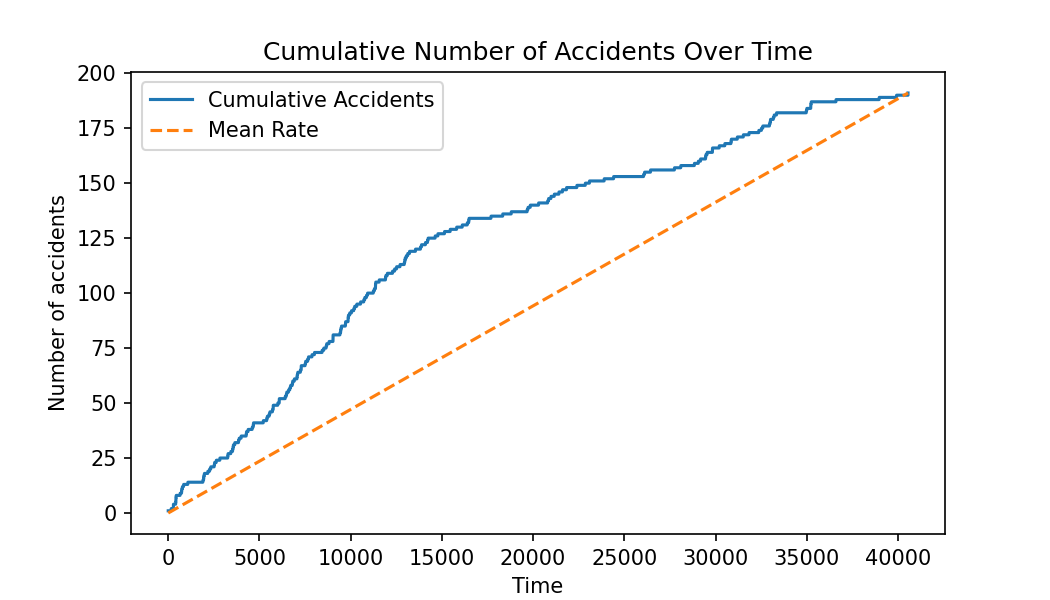
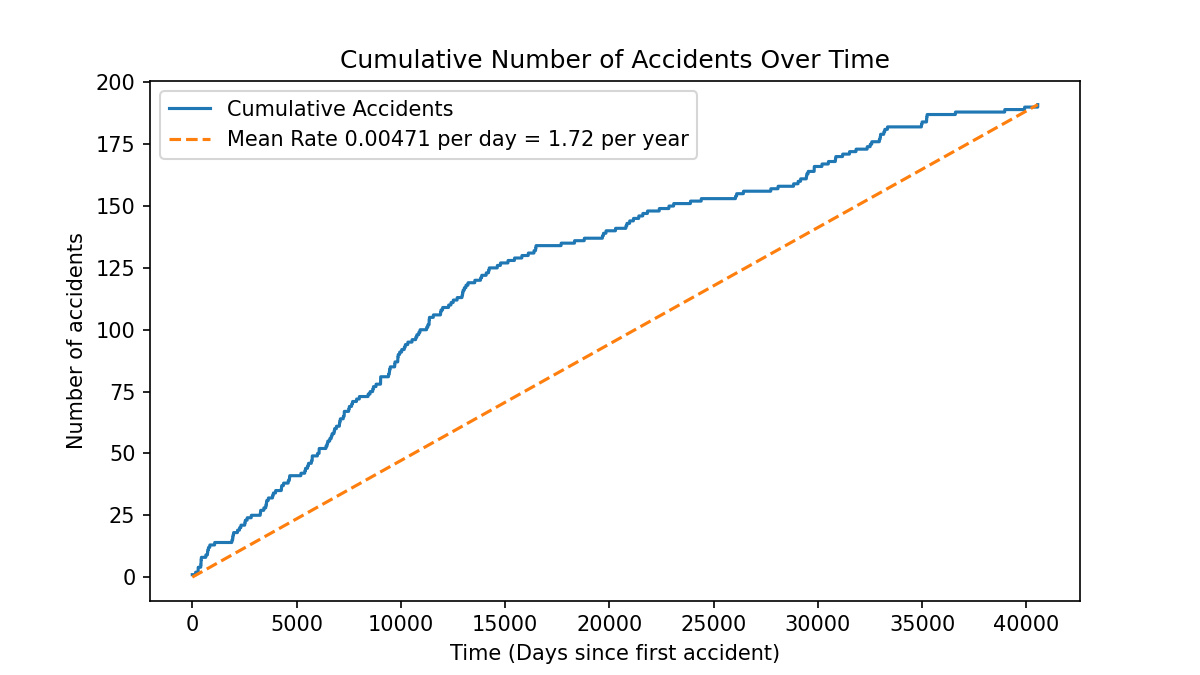
saved all graphs up to q5ultimatepart

diff --git a/helpers/q2.py b/helpers/q2.py
@@ -1,6 +1,9 @@
 import numpy as np
 import matplotlib.pyplot as plt
 
+from matplotlib.ticker import ScalarFormatter
+from matplotlib.gridspec import GridSpec
+
 def set_seed(seed=1701):
     """
     Sets the seed for NumPy's random number generator.
@@ -169,3 +172,99 @@ def compare_gaps(k=4, samples = 100000):
     proportion = np.mean(plain_gaps < even_5th)
     print(f'Proportion of plain gaps below 5th percentile of even gaps: {proportion:.3f}')
 
+
+def compare_gaps(k=4, samples=100000, savefig="plots/gap_comparison.png"):
+    """
+    Compare the even-numbered order statistic and plain uniform sampling
+    strategies for change-point positions.
+
+    Produces a 6-panel figure: the top four panels show the marginal
+    distribution of each change-point position :math:`s_1, \ldots, s_k`
+    under both strategies, and the bottom two panels show the distribution
+    of gap sizes between consecutive points for each strategy, with the
+    mean and 5th/95th percentiles marked.
+
+    Parameters
+    ----------
+    k : int, optional
+        Number of change-point positions per draw.
+    samples : int, optional
+        Number of Monte Carlo draws used to build the distributions.
+    savefig : str or None, optional
+        File path to save the figure. If None, the figure is not saved.
+    """
+    set_seed()
+    even_gaps = []
+    even_points = []
+    plain_gaps = []
+    plain_points = []
+
+    for i in range(samples):
+        even_point = even_stats(k=k)
+        plain_point = plain_stats(k=k)
+        even_points.append(even_point)
+        plain_points.append(plain_point)
+        even_gaps.append(find_gaps(even_point))
+        plain_gaps.append(find_gaps(plain_point))
+
+    even_gaps = np.array(even_gaps).flatten()
+    plain_gaps = np.array(plain_gaps).flatten()
+    even_points = np.array(even_points)
+    plain_points = np.array(plain_points)
+
+    fig = plt.figure(figsize=(10, 8))
+    gs = GridSpec(4, 2, figure=fig, hspace=0.6, wspace=0.3)
+
+    # Left column: position distributions
+    for i in range(4):
+        ax = fig.add_subplot(gs[i, 0])
+        ax.set_title(f"Position distribution of $s_{i+1}$")
+        ax.hist(even_points[:, i], bins=75, alpha=0.5, label="Even")
+        ax.hist(plain_points[:, i], bins=75, alpha=0.5, label="Plain")
+        ax.set_ylabel("Frequency")
+        ax.legend(fontsize=7)
+        ax.set_xlim(0, 40550)
+        ax.xaxis.set_major_formatter(ScalarFormatter(useMathText=True))
+        ax.ticklabel_format(axis='x', style='sci', scilimits=(0, 0))
+        if i == 3:
+            ax.set_xlabel("Change point (days since first accident)")
+
+    # Right column: gap distributions (each spanning 2 rows)
+    ax_even = fig.add_subplot(gs[0:2, 1])
+    ax_even.hist(even_gaps, bins=75)
+    ax_even.set_title("Combined even-stats gaps")
+    ax_even.set_ylabel("Frequency")
+    ax_even.axvline(np.mean(even_gaps), color="red", linestyle="--",
+                    label=f"Mean: {np.mean(even_gaps):.1f}")
+    ax_even.axvline(np.percentile(even_gaps, 5), color="orange", linestyle=":",
+                    label=f"5th pct: {np.percentile(even_gaps, 5):.1f}")
+    ax_even.axvline(np.percentile(even_gaps, 95), color="orange", linestyle=":",
+                    label=f"95th pct: {np.percentile(even_gaps, 95):.1f}")
+    ax_even.legend(fontsize=7)
+    ax_even.xaxis.set_major_formatter(ScalarFormatter(useMathText=True))
+    ax_even.ticklabel_format(axis='x', style='sci', scilimits=(0, 0))
+
+
+    ax_plain = fig.add_subplot(gs[2:4, 1])
+    ax_plain.hist(plain_gaps, bins=75)
+    ax_plain.set_title("Combined plain-stats gaps")
+    ax_plain.set_ylabel("Frequency")
+    ax_plain.set_xlabel("Gap size (days)")
+    ax_plain.axvline(np.mean(plain_gaps), color="red", linestyle="--",
+                     label=f"Mean: {np.mean(plain_gaps):.1f}")
+    ax_plain.axvline(np.percentile(plain_gaps, 5), color="orange", linestyle=":",
+                     label=f"5th pct: {np.percentile(plain_gaps, 5):.1f}")
+    ax_plain.axvline(np.percentile(plain_gaps, 95), color="orange", linestyle=":",
+                     label=f"95th pct: {np.percentile(plain_gaps, 95):.1f}")
+    ax_plain.legend(fontsize=7)
+    ax_plain.xaxis.set_major_formatter(ScalarFormatter(useMathText=True))
+    ax_plain.ticklabel_format(axis='x', style='sci', scilimits=(0, 0))
+
+    if savefig is not None:
+        plt.savefig(savefig, dpi=150)
+    plt.show()
+
+    even_5th = np.percentile(even_gaps, 5)
+    proportion = np.mean(plain_gaps < even_5th)
+    print(f"Proportion of plain gaps below 5th percentile of even gaps: {proportion:.3f}")
+    

diff --git a/helpers/q4.py b/helpers/q4.py
@@ -5,6 +5,7 @@ import dynesty
 import corner
 from scipy.stats import gaussian_kde, beta, gamma
 from scipy.special import gammaln, betaln
+from matplotlib.ticker import ScalarFormatter
 
 def LnPost(theta, data):
     """
@@ -205,7 +206,7 @@ def trace_plot(k=1, samples=None):
     ax[-1].set_xlabel("step")
     plt.show()
 
-def corner_plot(k=1, samples=None):
+def corner_plot(k=1, samples=None, savefig="plots/corner_plot.png"):
     """
     Plot a corner plot of the posterior samples for the k change-point model.
 
@@ -237,19 +238,39 @@ def corner_plot(k=1, samples=None):
     fig = corner.corner(
         samples,
         labels=labels,
-        show_titles=True,
+        show_titles=False,
         title_fmt=".4f",
         truths=means,           # plots vertical line at mean
         truth_color="blue",
+        fig=plt.figure(figsize=(6, 6)),
+        dpi = 150
     )
+
+    for ax in fig.axes:
+        ax.tick_params(axis='both', labelsize=7)
+
+    # fig.suptitle(f"Corner plot of posterior samples for k={k} change points", fontsize=16,y=1.02)
     axes = np.array(fig.axes).reshape((2*k+1, 2*k+1))
 
     for i in range(2*k + 1):
         ax = axes[i, i]
+        med = np.percentile(samples[:, i], 50)
+        lo = med - np.percentile(samples[:, i], 16)
+        hi = np.percentile(samples[:, i], 84) - med
+
+        if i < k:
+            title = f"$s_{{{i+1}}}$ = {med:.0f}$^{{+{hi:.0f}}}_{{-{lo:.0f}}}$ days"
+        else:
+            j = i - k
+            title = f"$h_{{{j}}}$ = {med:.4f}$^{{+{hi:.4f}}}_{{-{lo:.4f}}}$"
+
+        ax.set_title(title, fontsize=10)
         ax.axvline(means[i], color="blue", label="mean")
         ax.axvline(means[i] - stds[i], color="blue", linestyle="--", label=r"$\pm 1\sigma$")
         ax.axvline(means[i] + stds[i], color="blue", linestyle="--")
 
+    if savefig:
+        fig.savefig(savefig)
     plt.show()
 
 
@@ -337,7 +358,7 @@ def gewecke(chain, first_frac=0.1, last_frac=0.5):
     gewecke_stat = (mean_first - mean_last) / np.sqrt(var_first/na + var_last/nb)
     return gewecke_stat
 
-def savage_dickey(samples):
+def savage_dickey(samples, savefig="plots/savage_dickey.png"):
     """
     Plot three diagnostic panels for the Savage-Dickey density ratio analysis
     of the k=1 change-point model M_1 against the constant rate model M_0.
@@ -386,7 +407,7 @@ def savage_dickey(samples):
     B = np.exp(log_B)
     pi = 1 / ((L ** 3) *  B) * (x * (L-x))
 
-    fig, ax = plt.subplots(1, 3, figsize=(15, 5))
+    fig, ax = plt.subplots(1, 3, figsize=(15, 5), dpi=150)
 
     # Panel 1: h0 vs h1 2D histogram
     h = ax[0].hist2d(samples[:, 1], samples[:, 2],
@@ -403,33 +424,40 @@ def savage_dickey(samples):
     ax[0].set_ylabel('$h_1$')
     ax[0].set_xlim(0, 0.015)
     ax[0].set_ylim(0, 0.015)
+    ax[0].xaxis.set_major_formatter(ScalarFormatter(useMathText=True))
+    ax[0].ticklabel_format(axis='x', style='sci', scilimits=(0, 0))
     ax[0].legend()
     ax[0].set_title('Posterior samples in rate space')
 
     # Panel 2: s1 marginal posterior
-    ax[1].hist(samples[:, 0], bins=50, density=True)
-    ax[1].set_xlabel('Change point $s_1$ (days)')
-    ax[1].set_title('Marginal of change point $s_1$')
-    ax[1].axvline(0, color='red', linestyle='--', label='$M_0 = M_1$')
-    ax[1].axvline(40550, color='red', linestyle='--')
-    ax[1].set_xlim(-10, 40600)
-    ax[1].plot(s1_range, kde_s1_vals, 'b-', label='Posterior KDE')
-    ax[1].scatter([0, 40550], [s1_posterior_at_zero, s1_posterior_at_L], color='black', zorder=5,
-                  label=f'Posterior KDE at 0 and L = {s1_posterior_at_zero:.1f}, {s1_posterior_at_L:.1f}', marker='x')
-    ax[1].plot(x, pi, label='Prior PDF of $s_1$', color='orange')
-    ax[1].legend()
-
-    # Panel 3: delta posterior with KDE
-    ax[2].hist(delta, bins=50, density=True, alpha=0.4, label='Histogram')
-    ax[2].plot(delta_range, kde_vals, 'b-', label='Posterior KDE')
-    ax[2].axvline(0, color='red', linestyle='--', label='$\\delta = 0$')
-    ax[2].scatter([0], [posterior_at_zero], color='black', zorder=5,
-                  label=f'Posterior KDE at 0 = {posterior_at_zero:.1f}', marker='x')
-    ax[2].set_xlabel('$\\delta = h_1 - h_0$')
-    ax[2].set_title('Density estimate near the null subspace')
+    ax[2].hist(samples[:, 0], bins=50, density=True)
+    ax[2].set_xlabel('Change point $s_1$ (days)')
+    ax[2].set_title('Marginal posterior of change point $s_1$')
+    ax[2].axvline(0, color='red', linestyle='--', label='$M_0 = M_1$')
+    ax[2].axvline(40550, color='red', linestyle='--')
+    ax[2].set_xlim(-10, 40600)
+    ax[2].xaxis.set_major_formatter(ScalarFormatter(useMathText=True))
+    ax[2].ticklabel_format(axis='x', style='sci', scilimits=(0, 0))
+    ax[2].plot(s1_range, kde_s1_vals, 'b-', label='Posterior KDE')
+    ax[2].scatter([0, 40550], [s1_posterior_at_zero, s1_posterior_at_L], color='black', zorder=5,
+              label=f'Posterior KDE at 0 and L = {s1_posterior_at_zero:.1f}, {s1_posterior_at_L:.1f}', marker='x')
+    
+    ax[2].plot(x, pi, label='Prior PDF of $s_1$', color='orange')
     ax[2].legend()
 
+    # Panel 3: delta posterior with KDE
+    ax[1].hist(delta, bins=50, density=True, alpha=0.4, label='Histogram')
+    ax[1].plot(delta_range, kde_vals, 'b-', label='Posterior KDE')
+    ax[1].axvline(0, color='red', linestyle='--', label='$\\delta = 0$')
+    ax[1].scatter([0], [posterior_at_zero], color='black', zorder=5,
+                  label=f'Posterior KDE at 0 = {posterior_at_zero:.1f}', marker='x')
+    ax[1].set_xlabel('$\\delta = h_1 - h_0$')
+    ax[1].set_title('Densities near the $h_1 = h_0$ manifold')
+    ax[1].legend()
+
     plt.tight_layout()
+    if savefig:
+        fig.savefig(savefig)
     plt.show()
 
 #----------------------------------------

diff --git a/helpers/q5.py b/helpers/q5.py
@@ -1,6 +1,6 @@
 import matplotlib.pyplot as plt
 import numpy as np
-from matplotlib.ticker import MultipleLocator
+from matplotlib.ticker import MultipleLocator, ScalarFormatter
 from collections import Counter
 from tqdm import tqdm
 
@@ -40,7 +40,7 @@ def autocorrelation_time(rjmcmc):
     return tau
 
 
-def k_post_trace(rjmcmc, discard):
+def k_post_trace(rjmcmc, discard, savefig="plots/k_post_trace.png"):
     r"""
     Plot the trace of the model index k and its posterior distribution.
 
@@ -67,26 +67,31 @@ def k_post_trace(rjmcmc, discard):
 
     discard = int(discard)
 
-    fig, (ax1, ax2) = plt.subplots(1, 2, sharey=True, gridspec_kw={'width_ratios': [2.5, 1]}, figsize=(10, 4))
+    fig, ax = plt.subplots(1, 2, sharey=True, gridspec_kw={'width_ratios': [2.5, 1]}, figsize=(10, 4), dpi=150)
 
-    ax1.plot(ks, 'k')
-    ax1.set_xlabel('Iteration')
-    ax1.set_ylabel('Model with k change points')
-    ax1.yaxis.set_major_locator(MultipleLocator(5))
-    ax1.yaxis.set_minor_locator(MultipleLocator(1))
-    ax1.set_ylim(0, 30)
-    ax1.axvline(discard, linestyle = "--", color='red', label = f"Burn-in discard:{discard:1d}")
-    # ax1.grid(which='both', axis='y', linestyle='--', linewidth=0.5)
-    ax1.set_title('Trace plot of the number of change points k')
-    ax1.legend()
+    ax[0].plot(ks)
+    ax[0].set_xlabel('Iteration')
+    ax[0].set_ylabel('Model with k change points')
+    ax[0].xaxis.set_major_formatter(ScalarFormatter(useMathText=True))
+    ax[0].ticklabel_format(axis='x', style='sci', scilimits=(0, 0))
+    ax[0].yaxis.set_major_locator(MultipleLocator(5))
+    ax[0].yaxis.set_minor_locator(MultipleLocator(1))
+    ax[0].set_ylim(0, 15)
+    ax[0].axvline(discard, linestyle = "--", color='black', label = f"Burn-in discard:{discard:1d}")
+    ax[0].axhline(k_map, color='red', linestyle='--', label=f'MAP k={k_map}')
+    # ax[0].grid(which='both', axis='y', linestyle='--', linewidth=0.5)
+    ax[0].set_title('Trace plot of the number of change points k')
+    ax[0].legend()
 
-    ax2.hist(ks[discard:], bins=np.arange(-0.5, 31.5, 1), orientation='horizontal', density=True, color='white', edgecolor='black')
-    ax2.set_xlabel('Posterior probability')
-    ax2.set_title('Posterior over k')
-    ax2.axhline(k_map, color='red', linestyle='--', label=f'MAP k={k_map}')
-    ax2.legend()
+    ax[1].hist(ks[discard:], bins=np.arange(-0.5, 15.5, 1), orientation='horizontal', density=True, )
+    ax[1].set_xlabel('Posterior probability')
+    ax[1].set_title('Posterior over k')
+    ax[1].axhline(k_map, color='red', linestyle='--', label=f'MAP k={k_map}')
+
 
     plt.tight_layout()
+    if savefig:
+        fig.savefig(savefig)
     plt.show()
 
     return k_map

diff --git a/helpers/q3.py b/helpers/q3.py
@@ -64,7 +64,7 @@ def find_z0():
     m0_lnz = m + np.log(unscaled_z)
     return m0_lnz
 
-def plot_prior_post(m0_lnz):
+def plot_prior_post(m0_lnz, savefig="plots/prior_posterior.png"):
     """
     Plot the prior and normalised posterior for the constant rate model M0.
 
@@ -102,17 +102,20 @@ def plot_prior_post(m0_lnz):
 
 
     # Plot
-    fig, ax = plt.subplots(1, 1, figsize=(10, 5))
+    fig, ax = plt.subplots(1, 1, figsize=(10, 5), dpi=150)
     ax.plot(h0_vals, pi_vals,
-            label=rf"Prior $\pi(h_0|M_0)$ = $\Gamma(\alpha = 1, \beta= 200$")
+            label=rf"Prior $\pi(h_0|M_0)$ = $\Gamma(\alpha = 1, \beta= 200)$")
     ax.plot(h0_vals, post_vals,
-            label=rf"Posterior $p(h_0|d, M_0)$ = $\Gamma(\alpha={alpha_prime}, \beta={beta_prime})$")
+            label=rf"Posterior $P(h_0|D, M_0)$ = $\Gamma(\alpha={alpha_prime}, \beta={beta_prime})$")
     ax.axvline(post_mean, color="red", linestyle="-",
                label=f"Posterior mean = {post_mean:.6f}")
     ax.axvspan(lower, upper, alpha=0.2, color='orange', label="95% credible interval")
-    ax.set_xlabel("h_0")
-    ax.set_title("Constant Rate Prior vs Posterior")
+    ax.set_xlabel("$h_0$ (accidents per day)")
+    ax.set_ylabel("Density")
+    ax.set_title("Constant Rate: Prior vs Posterior")
     ax.legend()
+    if savefig:
+        fig.savefig(savefig)
     fig.show()
 
 

diff --git a/helpers/q1.py b/helpers/q1.py
@@ -55,11 +55,11 @@ def plot_cumulative_accidents(cumulative_accidents: list, mean_rate: float, save
     savefig : str or None, optional
         File path to save the figure. If None, the figure is not saved.
     """
-    plt.figure(figsize=(7, 4))
+    plt.figure(figsize=(8, 4.5), dpi=150)
     plt.plot(range(40550), cumulative_accidents, label="Cumulative Accidents")
-    plt.plot(range(40550), mean_rate * np.arange(40550), linestyle="--", label="Mean Rate")
+    plt.plot(range(40550), mean_rate * np.arange(40550), linestyle="--", label=f"Mean Rate {mean_rate:.5f} per day = {mean_rate*365:.2f} per year")
     plt.title("Cumulative Number of Accidents Over Time")
-    plt.xlabel("Time")
+    plt.xlabel("Time (Days since first accident)")
     plt.ylabel("Number of accidents")
     plt.legend()
     if savefig: